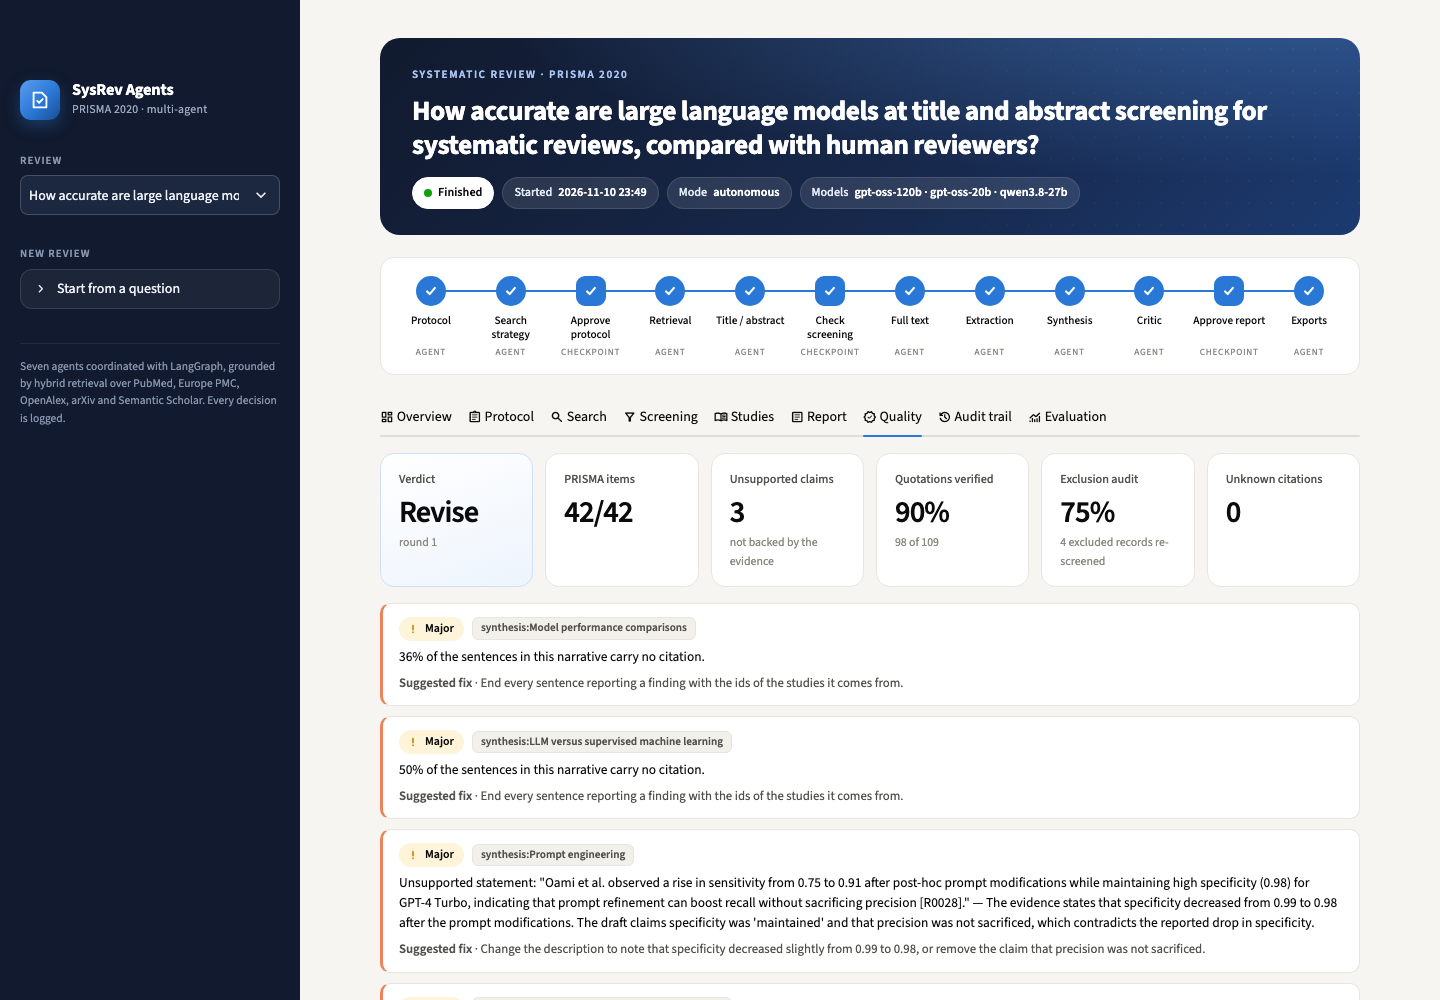
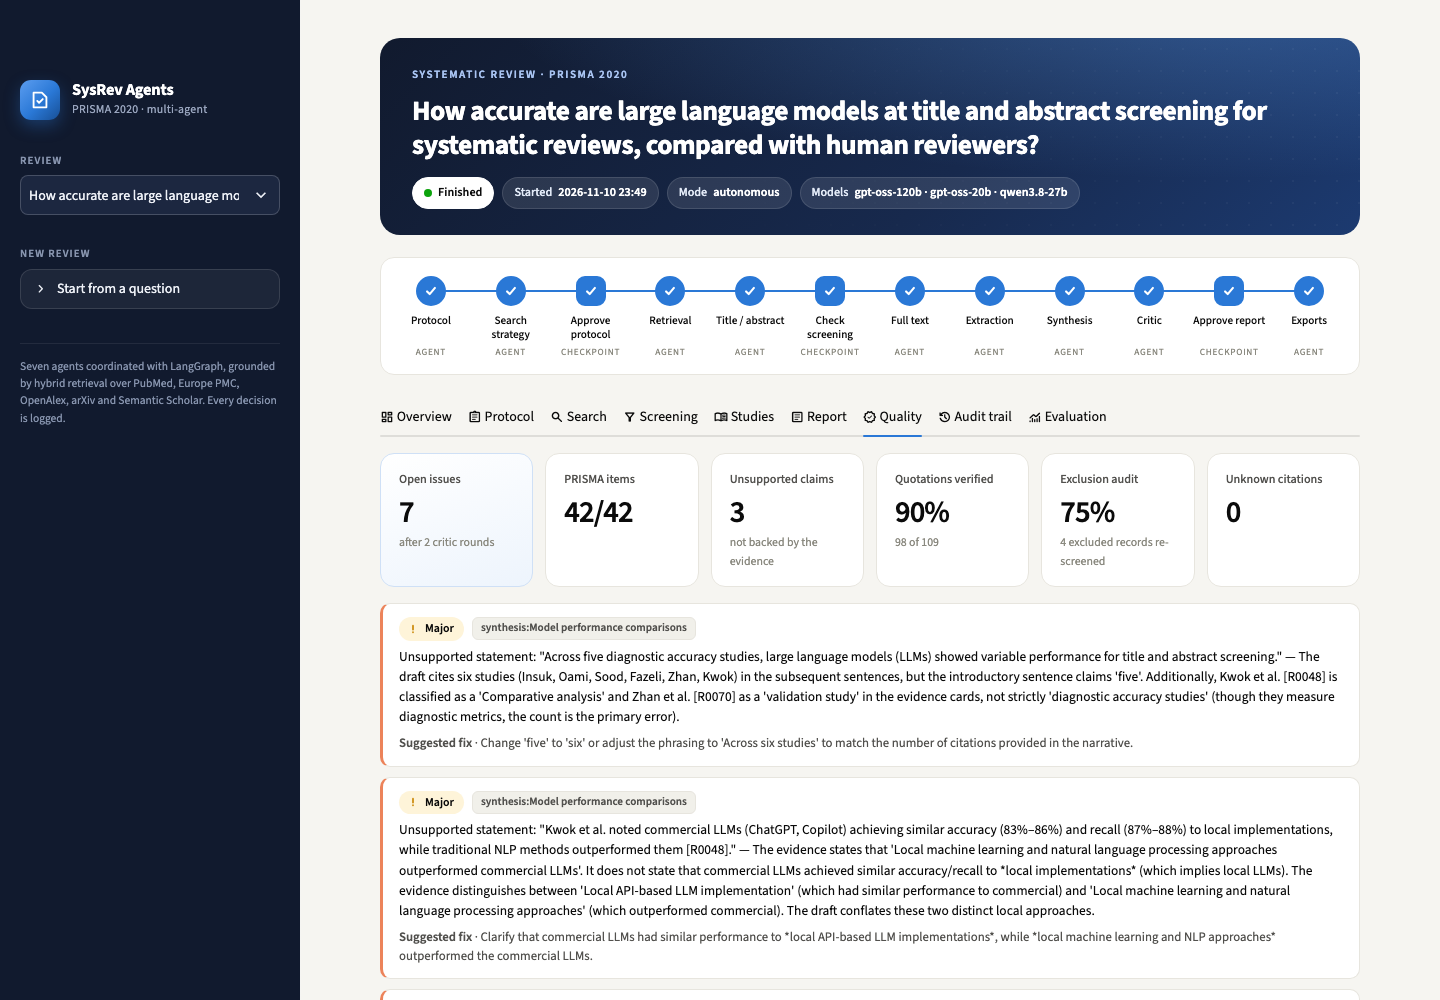
Apply the critic's revision to the demonstration and report its outcome
The revision round that the daily quota had interrupted was run with
`sysrev revise`. The writer fixed the round-1 defects; the critic found new
ones in the rewritten text, and with one round allowed 6 writer issues remain
open. README, technical report, interface wording and screenshots now say so.

Changed region(s): [[0.25, 0.651, 0.9375, 0.961], [0.2812, 0.992, 0.5, 1.0], [0.2812, 0.465, 0.3438, 0.558]]

diff --git a/app/streamlit_app.py b/app/streamlit_app.py
@@ -285,8 +285,8 @@ elif pending and pending["checkpoint"] == "screening":
 elif pending and pending["checkpoint"] == "report":
     pending_qa = pending["qa_report"]
     html('<div class="callout"><h3>Checkpoint 3 · Approve the manuscript</h3>'
-         f"<p>The Critic agent's verdict is “{ui.e(pending_qa['verdict'])}” with {len(pending_qa['issues'])} issue(s); see the "
-         "Quality tab. Approve to export, or ask the Writing agent for a revision.</p></div>")
+         f"<p>The Critic agent leaves {len(pending_qa['issues'])} issue(s) open; see the Quality tab. "
+         "Approve to export, or ask the Writing agent for a revision.</p></div>")
     feedback = st.text_area("Revision request (optional)", height=90)
     b1, b2, _ = st.columns([1, 1, 3])
     if b1.button("Approve and export", type="primary", width="stretch"):
@@ -376,10 +376,12 @@ with tabs[0]:
         with c3:
             if qa:
                 n_issues = len(qa["issues"])
+                rounds = qa["checks"].get("round", 1)
                 unsupported = qa["checks"].get("unsupported_statements", 0)
                 body = (
-                    f'<div class="figure">{n_issues} <small>issue{"s" if n_issues != 1 else ""} raised</small></div>'
-                    f'<div style="height:10px"></div><div class="badges">{ui.pill("Verdict: " + qa["verdict"], "warn" if n_issues else "good")}'
+                    f'<div class="figure">{n_issues} <small>issue{"s" if n_issues != 1 else ""} after {rounds} round{"s" if rounds != 1 else ""}</small></div>'
+                    f'<div style="height:10px"></div><div class="badges">'
+                    f'{ui.pill(f"{n_issues} still open" if n_issues else "No open issue", "warn" if n_issues else "good")}'
                     f'{ui.tag(f"{unsupported} unsupported statements")}{ui.tag("round " + str(qa["checks"].get("round", 1)))}</div>'
                 )
             else:
@@ -569,7 +571,8 @@ with tabs[6]:
         quotes = checks.get("extraction_quotes") or {}
         audit_x = checks.get("exclusion_audit") or {}
         html(ui.tiles([
-            {"label": "Verdict", "value": qa["verdict"].capitalize(), "note": f"round {checks.get('round', 1)}", "lead": True},
+            {"label": "Open issues", "value": len(qa["issues"]), "lead": True,
+             "note": f"after {checks.get('round', 1)} critic round{'s' if checks.get('round', 1) != 1 else ''}"},
             {"label": "PRISMA items", "value": f"{checks.get('prisma_items_reported', '—')}/{checks.get('prisma_items_total', '—')}"},
             {"label": "Unsupported claims", "value": checks.get("unsupported_statements", "—"), "note": "not backed by the evidence"},
             {"label": "Quotations verified",
@@ -617,9 +620,9 @@ with tabs[8]:
         t = evaluation["time"]
         rate = evaluation["accuracy"].get("extraction_quote_verification_rate")
         html(ui.tiles([
-            {"label": "Machine time", "value": f"{t['pipeline_hours']:.2f}", "unit": "h", "lead": True},
-            {"label": "Estimated manual effort", "value": f"{t['manual_person_hours_estimate']:.0f}", "unit": "person-hours",
-             "note": "assumptions in config/manual_effort.yaml"},
+            {"label": "Machine time", "value": f"{t['pipeline_hours']:.2f}", "unit": "h", "lead": True, "note": "incl. rate-limit waits"},
+            {"label": "Manual effort", "value": f"{t['manual_person_hours_estimate']:.0f}", "unit": "h",
+             "note": "person-hours, estimated"},
             {"label": "PRISMA items", "value": evaluation["completeness"]["prisma_items_reported"]},
             {"label": "Quotations verified", "value": f"{rate:.0%}" if rate is not None else "—"},
             {"label": "Agreement, title/abstract", "value": kappa({"cohen_kappa": evaluation["consistency"]["title_abstract_cohen_kappa"]}), "unit": "κ"},
@@ -627,7 +630,7 @@ with tabs[8]:
         ]))
 
         def listing(section: dict) -> str:
-            return ui.rows([ui.row("", f'<span class="muted">{ui.e(k.replace("_", " ").capitalize())}</span>', f"<b>{ui.e(v)}</b>")
+            return ui.rows([ui.row("", f'<span class="muted">{ui.e(k.replace("_", " ").capitalize().replace("Prisma", "PRISMA").replace("cohen", "Cohen"))}</span>', f"<b>{ui.e(v)}</b>")
                             for k, v in section.items() if k != "note"])
 
         c1, c2 = st.columns(2, gap="medium")

diff --git a/src/sysrev/cli.py b/src/sysrev/cli.py
@@ -153,7 +153,7 @@ def _print_result(run_id: str) -> None:
         f"full-text assessed: {flow['reports_assessed']}   included: {flow['studies_included']}\n"
         f"Kappa title/abstract: {result['agreement_title_abstract']['cohen_kappa']}   "
         f"PRISMA items reported: {result['prisma_items_reported']}/{result['prisma_items_total']}   "
-        f"QA verdict: {result['qa_verdict']}\n"
+        f"Critic: {len(ctx.store.load('qa_report')['issues'])} issue(s) open after {result['qa'].get('round', 1)} round(s)\n"
         f"Pipeline time: {sum(result['timings_seconds'].values()) / 60:.1f} min\n\n"
         f"Report:  {ctx.run_dir / 'report.md'}\n         {ctx.run_dir / 'report.docx'}\n"
         f"Audit:   {ctx.run_dir / 'audit.jsonl'}",

diff --git a/README.md b/README.md
@@ -273,8 +273,10 @@ ROLE_EXTRACTOR=fast sysrev run "How accurate are large language models at title 
 | Full-text screening | 10 open-access full texts retrieved and indexed, 10 reports assessed on the abstract; 13 included, 7 excluded with reasons; kappa 0.66; 3 conflicts adjudicated |
 | Extraction and appraisal | 13 studies; 98 of 109 supporting quotations found in the source (90%); tools chosen: QUADAS-2 (8), PROBAST (2), ROBINS-I (2), JBI (1); 12 studies "some concerns", 1 "unclear" |
 | Synthesis | 4 themes, certainty rating per theme, 8,700-word manuscript, 17 references, 5 tables, PRISMA diagram and evidence map; 42 of 42 PRISMA items reported |
-| Critic | 8 issues: 3 unsupported statements, 2 overstatements in the abstract, 2 narratives with too few citations, 1 excluded record an independent auditor would include |
-| Cost | 34.9 minutes, 148 model calls, 228 audit events |
+| Critic, round 1 | 8 issues: 3 unsupported statements, 2 overstatements in the abstract, 2 narratives with too few citations, 1 excluded record an independent auditor would include |
+| Revision | the Writing agent rewrote the flagged narratives, the discussion and the abstract |
+| Critic, round 2 | 7 issues: 3 unsupported statements in the rewritten narratives, 1 overstatement in the abstract, 1 in the discussion, 1 study never cited in its theme, and the same excluded record |
+| Cost | 34.9 minutes for the first complete pass; 169 model calls and 263 audit events including the revision |
 
 Outputs in [`examples/demo_run/`](examples/demo_run/): [`report.md`](examples/demo_run/report.md),
 [`report.docx`](examples/demo_run/report.docx), [`prisma_flow.png`](examples/demo_run/prisma_flow.png),
@@ -287,11 +289,14 @@ What to know when reading this demonstration:
 
 - **It is small.** The free daily quota was shared with development runs, so only 24 records were
   screened. The numbers describe that sample of the literature, not the whole field.
-- **The critic's issues are not yet corrected.** The daily quota of the writing model ran out just
-  before the revision round. The pipeline finished with the first draft, recorded that the revision
-  was skipped, and says so in the manuscript (Methods 2.9 and Limitations 4.3). To apply the
-  revision once quota is available: `sysrev revise <run_id>`, then
-  `sysrev export <run_id> examples/demo_run`.
+- **The revision did not converge.** The writer corrected what the critic had flagged, but the
+  critic then found new unsupported statements in the rewritten text. This run allowed one revision
+  round (`--qa-rounds 1`), so 6 issues for the writer remain open; they are listed in
+  [`qa_report.md`](examples/demo_run/qa_report.md) and the manuscript says so in its Methods. The
+  affected paragraphs need another round or a human edit.
+- **The revision was applied in a second sitting.** The daily quota of the writing model ran out
+  just before the revision round: the pipeline finished with the reviewed draft and recorded that
+  the revision was skipped. It was applied later with `sysrev revise <run_id>`.
 - **Extraction ran on the smaller model** (`ROLE_EXTRACTOR=fast`) for the same quota reason; the
   default is the larger one.
 - **No human verified anything** (autonomous mode). The manuscript is a draft for expert review.
@@ -305,9 +310,9 @@ are computed by `sysrev evaluate` from the run artifacts. For the demonstration 
 | Measure | Result |
 |---|---|
 | **Completeness** | 42/42 PRISMA 2020 items reported; PRISMA flow arithmetic consistent; 13/13 included studies extracted and appraised; 61 of 89 data items reported by the studies; 8 of 13 studies read from full text |
-| **Accuracy and grounding** | 98/109 extraction quotations located in the source text (90%); 0 citations to non-existent records; 0 of 13 included studies flagged by the eligibility audit; 3 unsupported statements and 2 overstatements detected by the critic in the first draft (not yet corrected, see section 5) |
+| **Accuracy and grounding** | 98/109 extraction quotations located in the source text (90%); 0 citations to non-existent records; 0 of 13 included studies flagged by the eligibility audit; the critic found 3 unsupported statements and 2 overstatements in the first draft, and again 3 and 2 (different ones) after one revision round (see section 5) |
 | **Inter-agent consistency** | title/abstract: kappa 0.83, raw agreement 96%, 1 conflict in 24; full text: kappa 0.66, raw agreement 85%, 3 conflicts in 20; independent re-screening of the 4 excluded records agreed on 3 |
-| **Time** | 0.58 hours of machine time, against an estimated 67.7 person-hours for a manual review of the same workload (24 records, 20 full texts, 13 studies) |
+| **Time** | 0.58 hours of machine time for the first complete pass (1.17 hours with the later revision round, most of it spent waiting for the daily quota), against an estimated 67.7 person-hours for a manual review of the same workload (24 records, 20 full texts, 13 studies) |
 
 The manual figure is an estimate, not a measurement: it applies per-task assumptions that are
 written down in [`config/manual_effort.yaml`](config/manual_effort.yaml) and can be changed.

diff --git a/docs/TECHNICAL_REPORT.md b/docs/TECHNICAL_REPORT.md
@@ -158,23 +158,31 @@ database, 24 records screened, one revision round allowed. All artifacts are in
 | Full-text screening | 10 full texts retrieved, 10 abstract-only; 13 included, 7 excluded; kappa 0.66; 3 adjudications | 6.1 min |
 | Extraction and appraisal | 13 studies; 98/109 quotations verified; 12 "some concerns", 1 "unclear" | 15.2 min |
 | Synthesis and writing | 4 themes; 8,700 words; 17 references; 42/42 PRISMA items | 6.1 min |
-| Critic | 8 issues raised | 3.1 min |
+| Critic, round 1 | 8 issues raised | 3.1 min |
+| Revision and critic, round 2 | flagged sections rewritten; 7 issues raised | run later, see below |
 
-Model calls: 148 (44 answered from the cache). Tokens sent: gpt-oss-120b 61 k, gpt-oss-20b 123 k,
-qwen3.8-27b 64 k. Nearly all of the 34.9 minutes is waiting for the per-minute rate limit: the
-models answered in 103 seconds in total.
+First complete pass: 148 model calls (44 answered from the cache) in 34.9 minutes. With the later
+revision round: 169 calls; tokens sent gpt-oss-120b 69 k, gpt-oss-20b 123 k, qwen3.8-27b 79 k.
+Nearly all the elapsed time is waiting for rate limits: the models answered in 112 seconds in total.
 
-**What the critic found.** Three statements not supported by the evidence (for example, the draft
-said specificity was "maintained" where the study reports a drop from 0.99 to 0.98), two
+**What the critic found (round 1).** Three statements not supported by the evidence (for example,
+the draft said specificity was "maintained" where the study reports a drop from 0.99 to 0.98), two
 overstatements in the abstract, two narratives with too few citations, and one excluded record
-that an independent auditor would include. These are real defects of the first draft and show the
-critic doing its job.
+that an independent auditor would include. These are real defects of the first draft.
 
-**What did not happen.** The revision round. The writing model's daily quota was exhausted when
-the critic returned its issues; the pipeline kept the reviewed draft, logged `revision_skipped`,
-and wrote the fact into the manuscript's Methods and Limitations. `sysrev revise <run_id>` applies
-the revision when quota is available. The critic → writer loop itself is exercised by the workflow
-tests and worked in the earlier trial run.
+**The revision, in two sittings.** The writing model's daily quota was exhausted when the critic
+returned its issues. The pipeline kept the reviewed draft, logged `revision_skipped`, wrote the
+fact into the manuscript and finished. Half an hour later `sysrev revise <run_id>` reopened the
+run: the writer rewrote the three flagged narratives, the discussion and the abstract, and the
+critic reviewed the result.
+
+**What the critic found (round 2).** The round-1 defects were gone, but the rewritten text
+contained new ones: three other unsupported statements, one overstatement in the abstract and one
+in the discussion, and a study never cited in its theme. With one revision round allowed for this
+run, the loop stopped there: 6 issues for the writer (7 with the screening one) remain open and
+are listed in `qa_report.md`; the manuscript's Methods state it. The lesson is that the critic →
+writer loop detects errors reliably but one round does not guarantee convergence: the default is
+two rounds, and the last word should be a human's.
 
 **Deviations from the default configuration**, both forced by the quota: extraction ran on
 gpt-oss-20b instead of gpt-oss-120b, and only 24 records were screened.
@@ -195,11 +203,11 @@ gpt-oss-20b instead of gpt-oss-120b, and only 24 records were screened.
 | Accuracy | Extraction quotations found in the source | 98/109 (90%) |
 | | Citations to non-existent records | 0 |
 | | Included studies flagged by the eligibility audit | 0/13 |
-| | Unsupported statements / overstatements found by the critic | 3 / 2 (first draft, uncorrected) |
+| | Unsupported statements / overstatements found by the critic | 3 / 2 in the first draft; 3 / 2 (different ones) after one revision |
 | Consistency | Title/abstract: kappa, raw agreement, conflicts | 0.83, 96%, 1/24 |
 | | Full text: kappa, raw agreement, conflicts | 0.66, 85%, 3/20 |
 | | Independent re-screening of excluded records | agreed on 3 of 4 |
-| Time | Machine time | 0.58 h |
+| Time | Machine time | 0.58 h for the first complete pass (1.17 h with the later revision, mostly quota waits) |
 | | Estimated manual effort, same workload | 67.7 person-hours |
 | | Per-item tasks only (screening, extraction, appraisal) | 0.41 h vs 22.7 person-hours |
 
